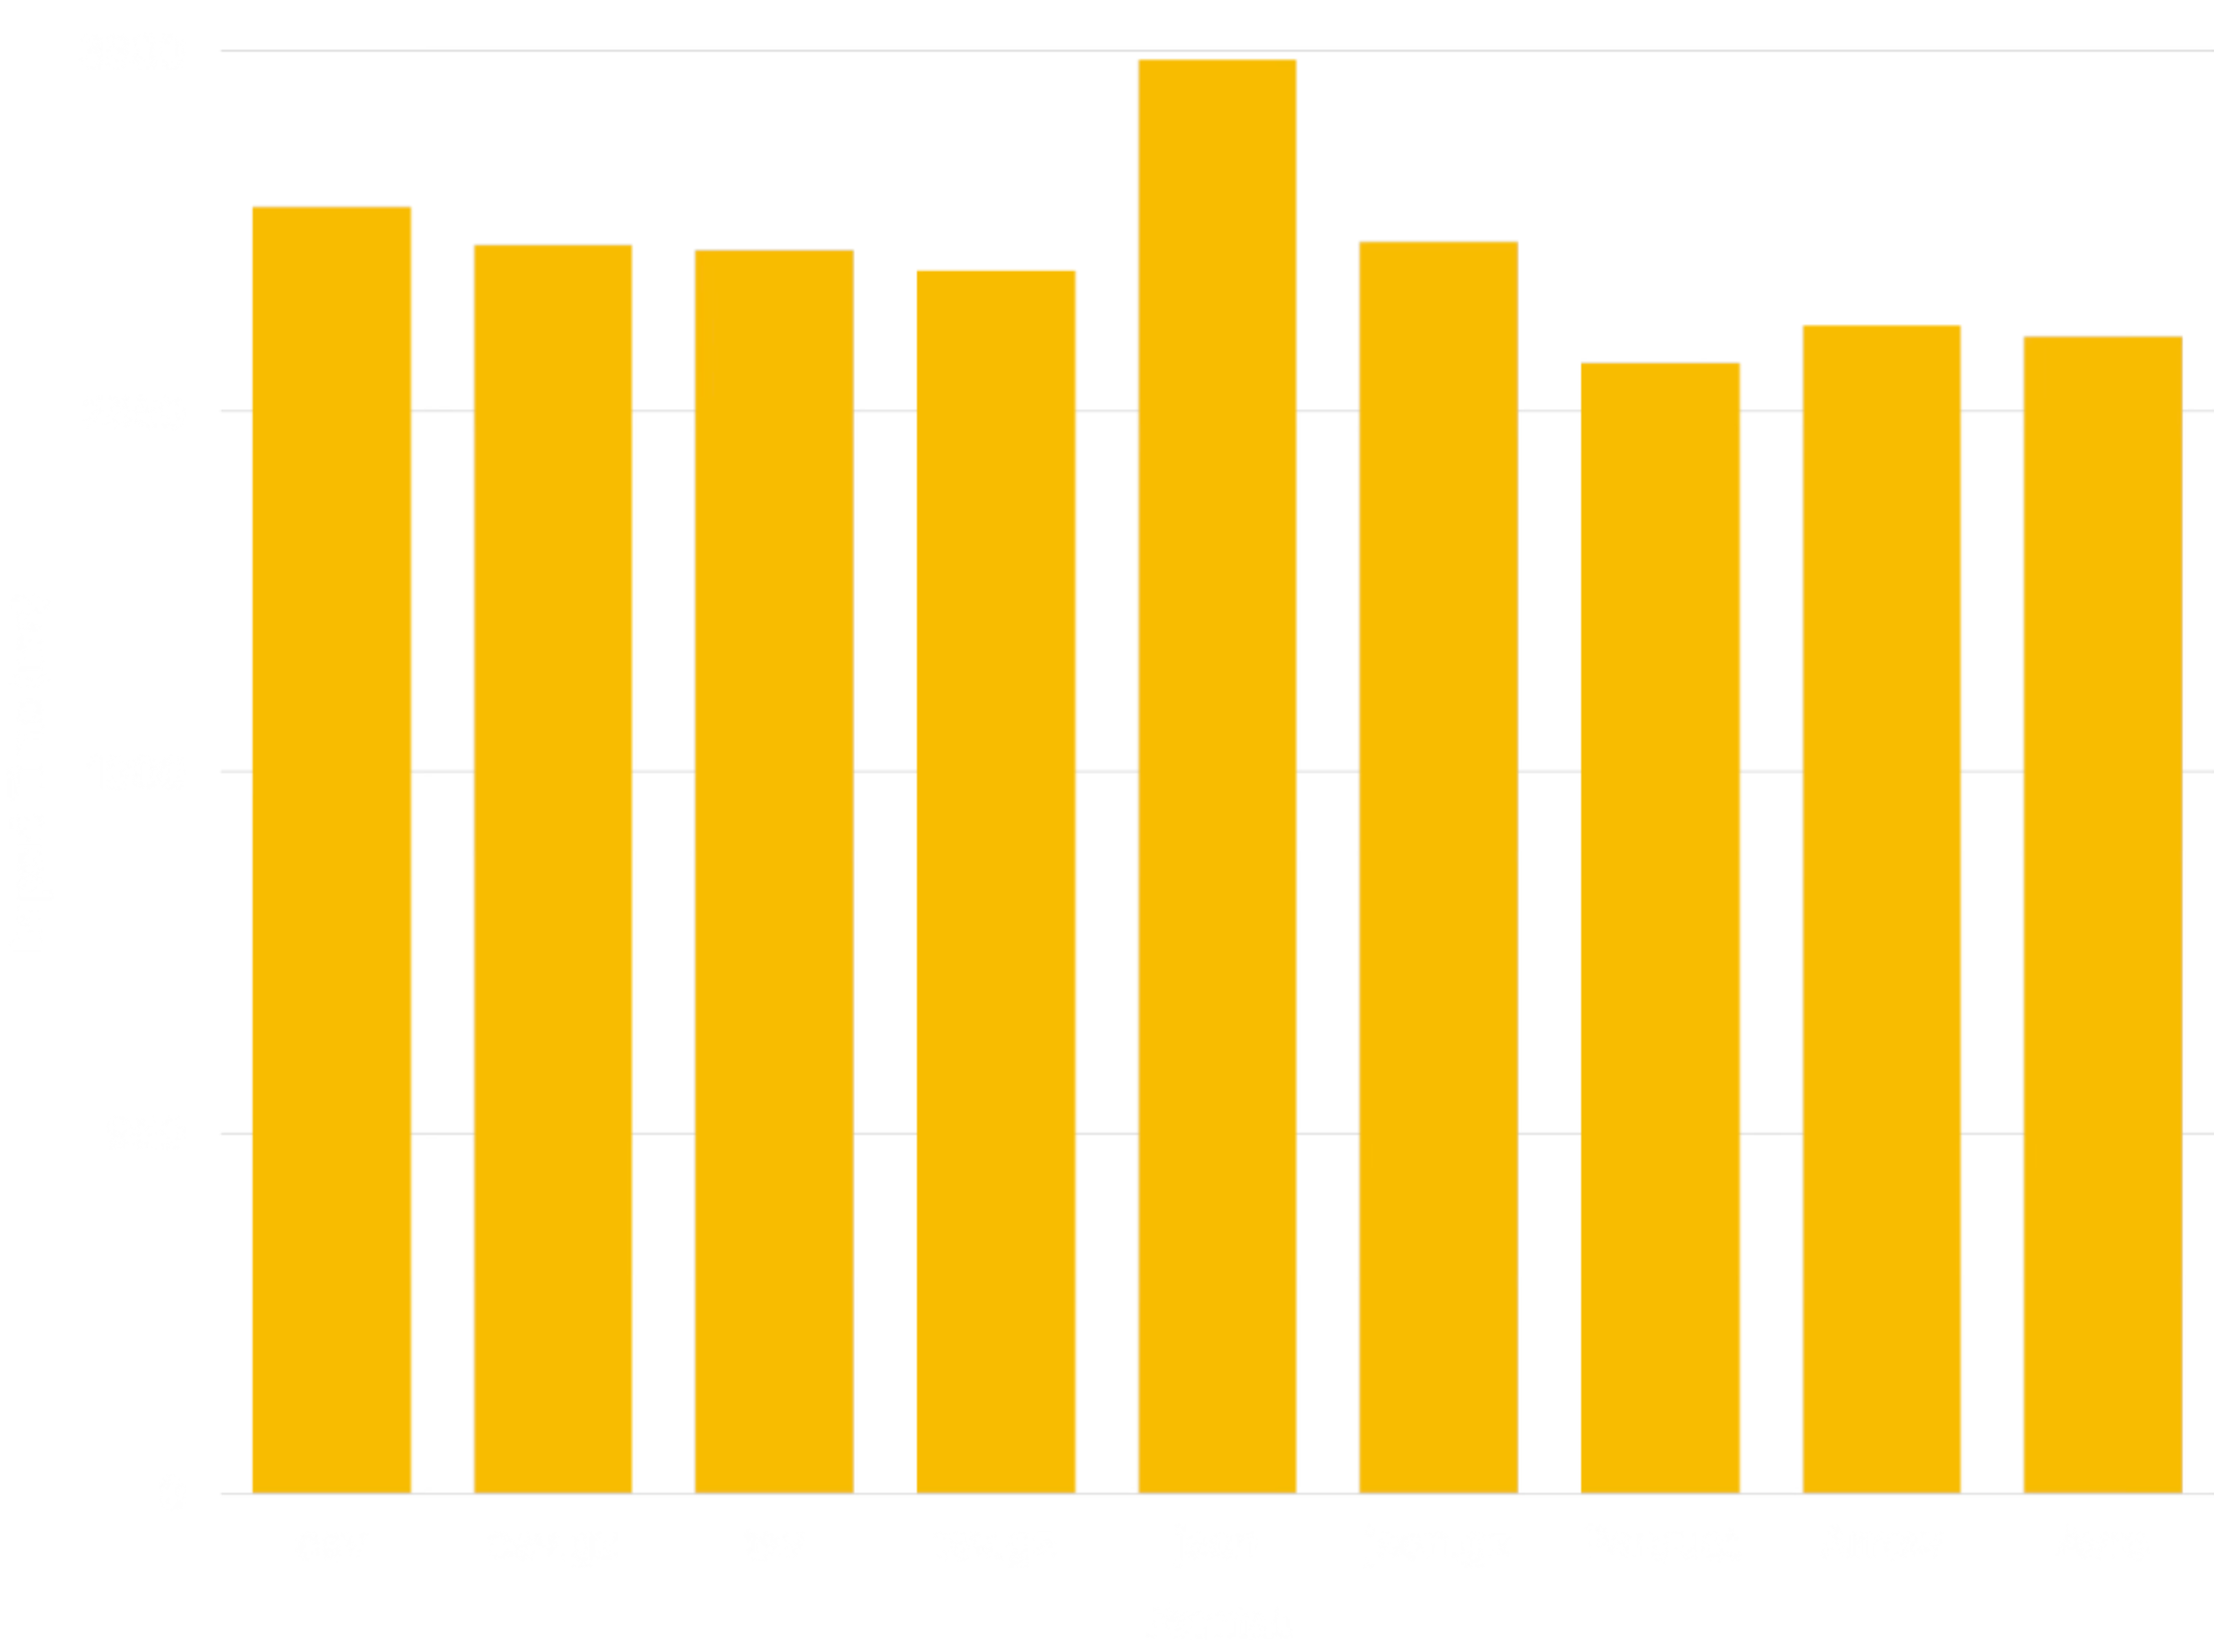
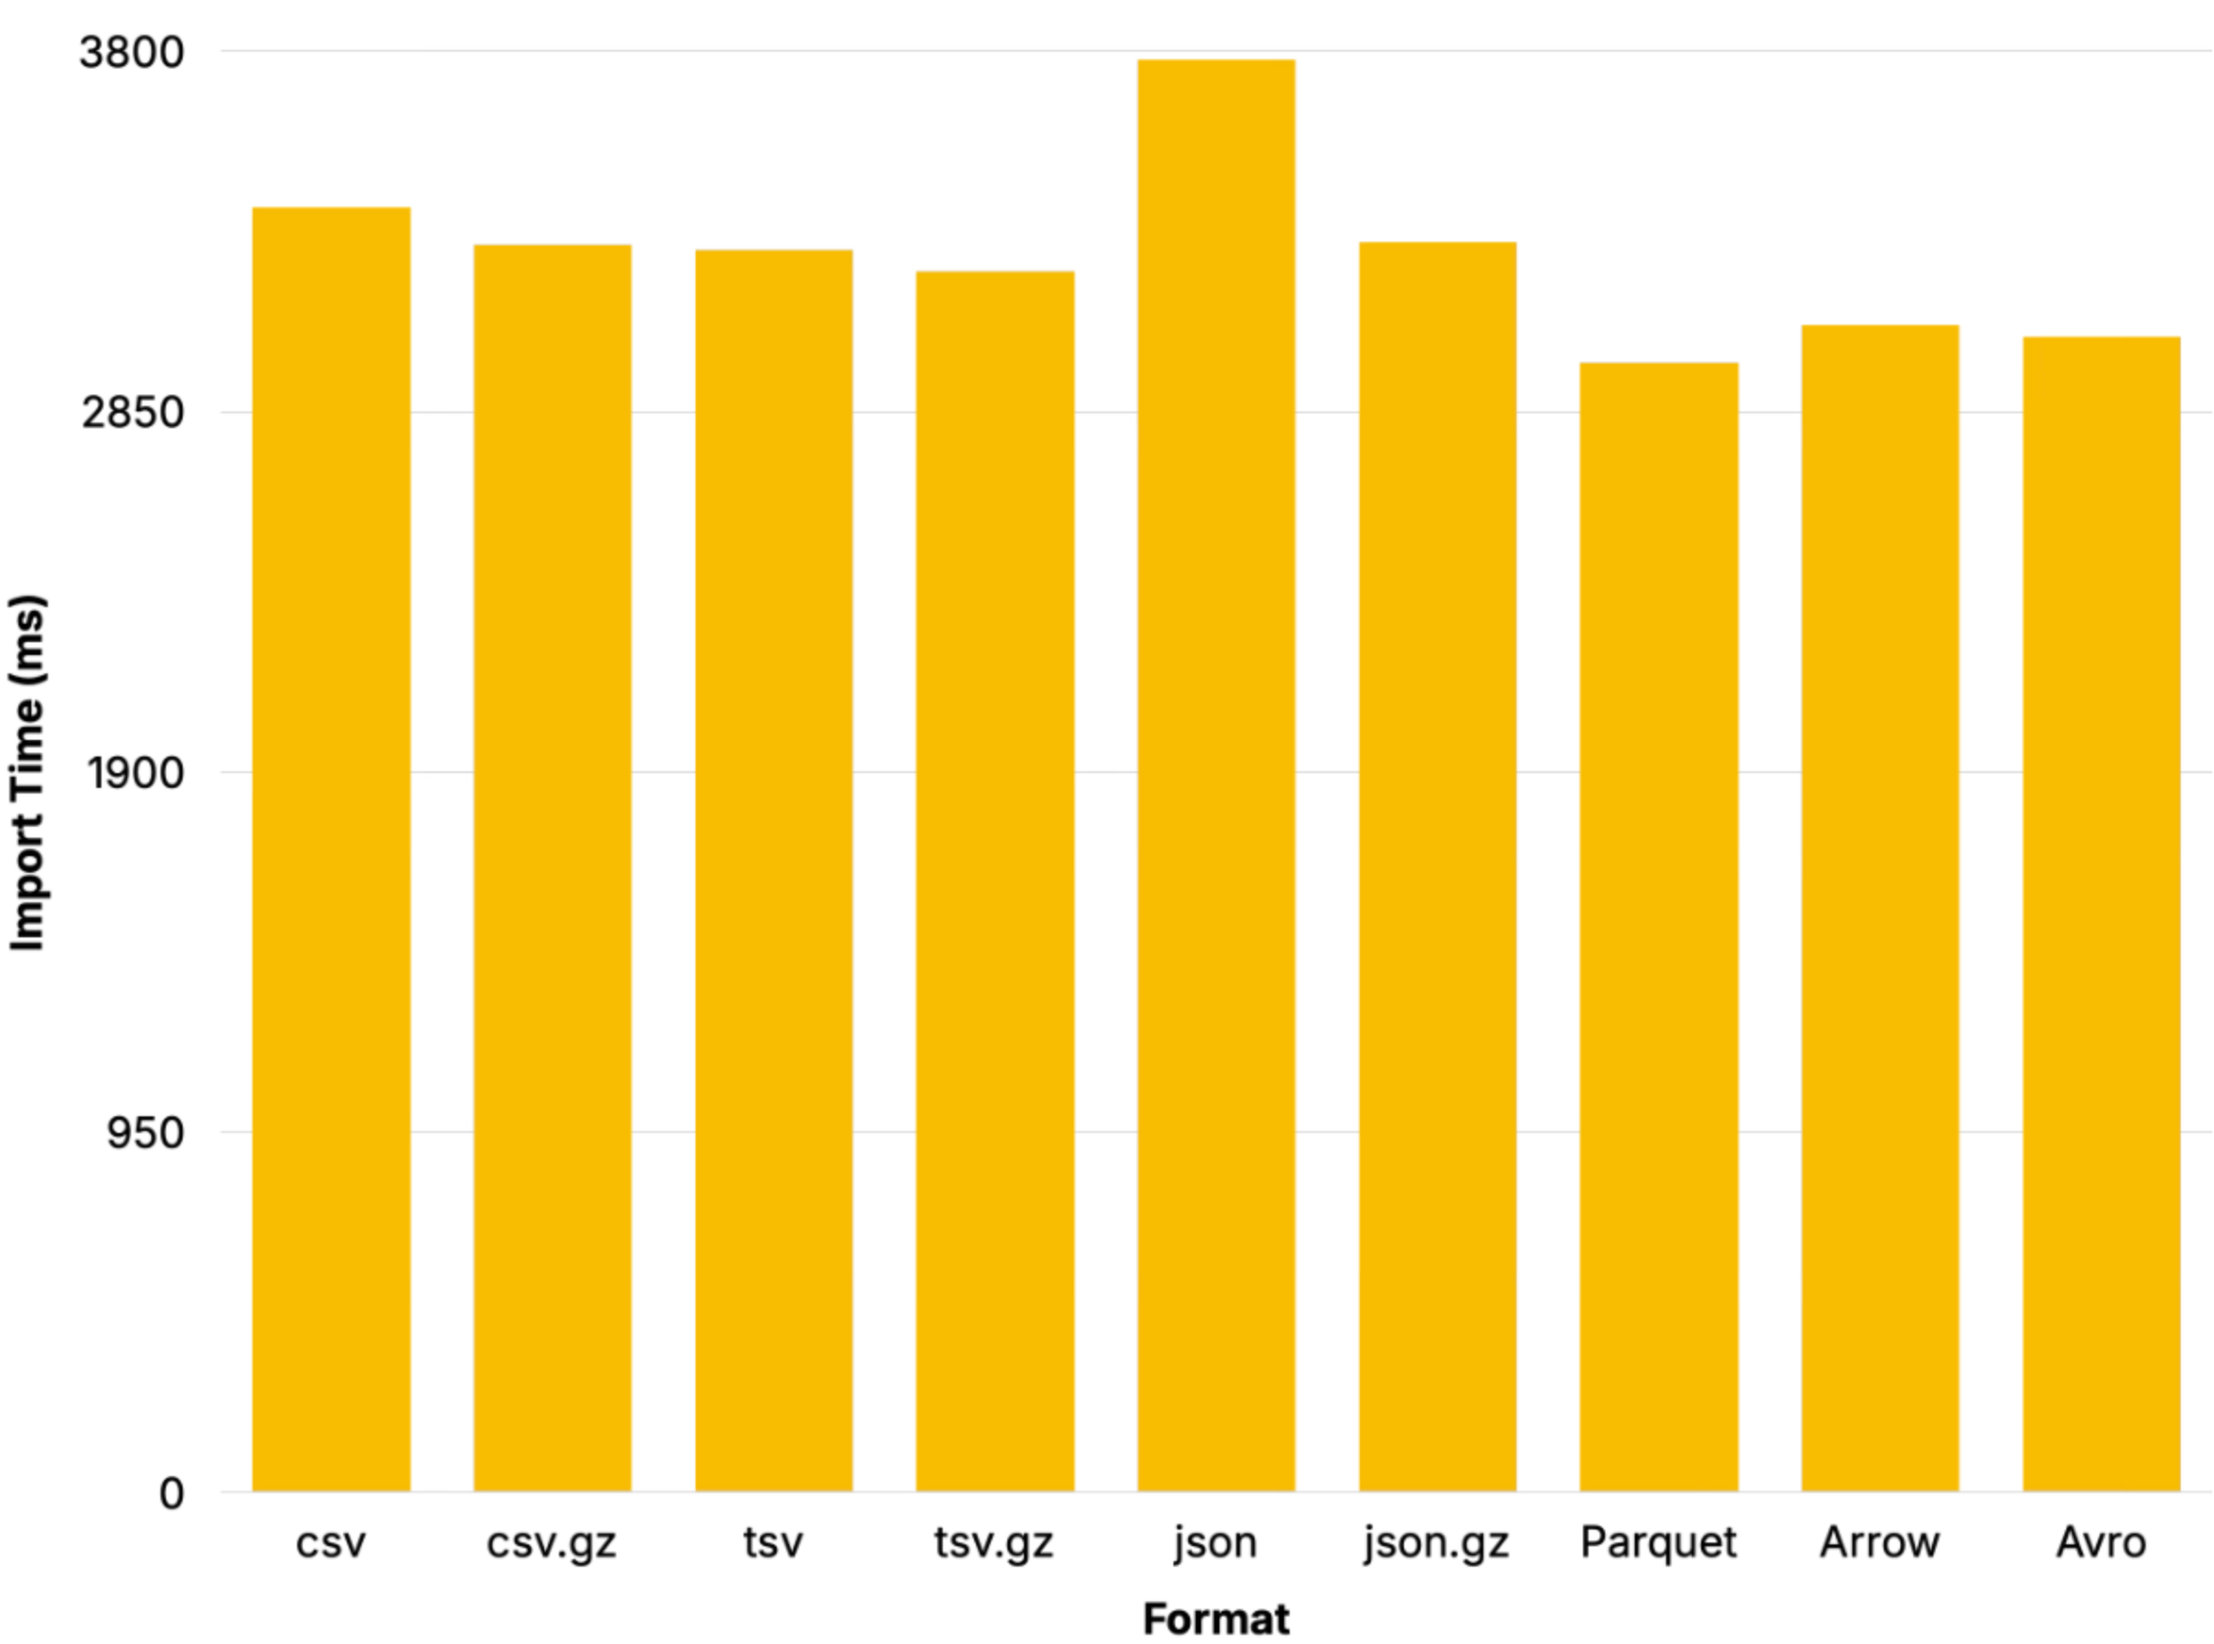
Increment to v0.1.1, link benchmark in README
Add alternate benchmark diagrams with black labels and timestamp for
release today. Tell PGXN not to index the `dev` directory, and exclude
`.gimodules` from the distribution. Replace "pg_clickhouse" pastos and
fix a few other minor documentation errors.

diff --git a/src/hook/copy.c b/src/hook/copy.c
@@ -277,7 +277,7 @@ make_ch_query(chdbCopyContext* ctx, StringInfo query, char** names, char** value
         if (ctx->scheme == s3_scheme) {
             if (slash && slash - uri >= strlen(AWS_HOST) &&
                 !pg_strncasecmp(slash - strlen(AWS_HOST), AWS_HOST, strlen(AWS_HOST))) {
-                /* s3://{bucket}.{region}.amazonaws.com/{path} */
+                /* s3://{bucket}.s3.{region}.amazonaws.com/{path} */
                 PARAM("{url:String}", "url", psprintf("https://%s", uri));
             } else {
                 /* s3://{bucket}/{path} */

diff --git a/README.md b/README.md
@@ -89,6 +89,43 @@ CREATE TABLE reviews () WITH (
 
 See the [chdb_hook documentation](doc/chdb_hook.md) for details.
 
+Benchmarking Formats
+--------------------
+
+The contents of [dev/benchmark](dev/benchmark/) compare the performance of
+[chdb_hook] `COPY` to that of [aws_s3], [pg_duckdb], and [pg_lake] for ca. 1m
+rows of [NYC Taxi dataset] in a variety of formats.
+
+<picture>
+  <source media="(prefers-color-scheme: dark)" srcset="dev/benchmark/taxi-bench-dark.png">
+  <img alt="NYC Taxi Data Benchmark" src="dev/benchmark/taxi-bench.png">
+</picture>
+
+Of the four extensions, [chdb] exhibits the most consistent performance.
+[pg_duckdb] and [pg_lake], both backed by [DuckDB], take around 2-3x as long
+to import data from CSV, JSON, and Parquet. Only [aws_s3] approaches
+[chdb_hook]'s performance, but it supports a much more limited array of data
+formats:
+
+| Extension | Compression                          | Data Formats
+| --------- | ------------------------------------ | -------------------------------- |
+| aws_s3    | none                                 | Text (TSV), CSV, Postgres Binary |
+| pg_lake   | gzip, zstd, snappy (Parquet only)    | CSV, JSON, Parquet               |
+| pg_duckdb | gzip, zstd, snappy (Parquet only)    | CSV, JSON, Parquet               |
+| chdb      | tzip, zstd, lz4, bz2, snappy, brotli | TSV, CSV, JSON, BSON, Prometheus, Protobuf, Avro, Parquet, Arrow, XML, CapnProto, Markdown, MsgPack, ORC, and [more][formats]! |
+
+Additional benchmarking demonstrates relatively consistent performance
+importing the [NYC Taxi dataset] in a variety of formats:
+
+<picture>
+  <source media="(prefers-color-scheme: dark)" srcset="dev/benchmark/chdb-bench-dark.png">
+  <img alt="Import Benchmark" src="dev/benchmark/chdb-bench.png">
+</picture>
+
+The benchmark uses the [JSONCompact] format for compatibility with the other
+extensions; Other JSON formats, such as [JSONCompactEachRow], will more
+closely approximate the performance of the other formats.
+
 Architecture
 ------------
 
@@ -114,10 +151,10 @@ A helper that dies triggers an error only in the backend that started it,
 leaving other sessions untouched.
 
 > [!IMPORTANT]
-> For each query, the helper connects to a new in-memory database to execute
-> it. As a consequence, each query currently runs in complete isolation from
-> all other queries. Don't create a table and expect to query it in a
-> subsequent query.
+> For each query, the helper connects to a temporary chDB database on disk to
+> execute it. As a consequence, each query currently runs in complete
+> isolation from all other queries. Don't create a table and expect to query
+> it in a subsequent query.
 
 Dependencies
 ------------
@@ -246,3 +283,12 @@ Copyright (c) 2026, ClickHouse
     "Postgres Docs: CREATE TABLE"
   [lib.chdb.io]: https://lib.chdb.io "curl -sL https://lib.chdb.io | bash"
   [`postgresql.conf` parameters]: https://www.postgresql.org/docs/devel/runtime-config-client.html#RUNTIME-CONFIG-CLIENT-OTHER
+  [chdb_hook]: https://pgxn.org/dist/chdb/doc/chdb_hook.html "chdb_hook Docs on PGXN"
+  [aws_s3]: https://docs.aws.amazon.com/AmazonRDS/latest/UserGuide/USER_PostgreSQL.S3Import.html
+    "Importing data from Amazon S3 into an RDS for PostgreSQL DB instance"
+  [pg_duckdb]: https://github.com/duckdb/pg_duckdb "DuckDB-powered Postgres for high performance apps & analytics"
+  [pg_lake]: https://github.com/Snowflake-Labs/pg_lake "pg_lake: Postgres with Iceberg and data lake access"
+  [formats]: https://clickhouse.com/docs/reference/formats/index
+    "ClickHouse Docs: Formats for input and output data"
+  [NYC Taxi dataset]: https://clickhouse.com/docs/get-started/quickstarts/tutorial
+    "ClickHouse Docs: Advanced tutorial"

diff --git a/doc/chdb.md b/doc/chdb.md
@@ -1,5 +1,5 @@
-chdb 0.1.0
-===========
+chdb 0.1.1
+==========
 
 ## Synopsis
 
@@ -153,8 +153,8 @@ Once installed, PostgreSQL tracks two variations of the version:
     function.
 *   The extension version (defined in the control file) includes only the
     major and minor versions, visible in the `pg_catalog.pg_extension` table,
-    the output of the `pg_available_extension_versions()` function, and `\dx
-    pg_clickhouse`.
+    the output of the `pg_available_extension_versions()` function, and
+    `\dx chdb`.
 
 In practice this means that a release that increments the patch version, e.g.
 from `v0.1.0` to `v0.1.1`, benefits all databases that have loaded `v0.1` and
@@ -162,8 +162,8 @@ do not need to run `ALTER EXTENSION` to benefit from the upgrade.
 
 A release that increments the minor or major versions, on the other hand, will
 be accompanied by SQL upgrade scripts, and all existing database that contain
-the extension must run `ALTER EXTENSION pg_clickhouse UPDATE` to benefit from
-the upgrade.
+the extension must run `ALTER EXTENSION chdb UPDATE` to benefit from the
+upgrade.
 
 ## Authors
 

diff --git a/CHANGELOG.md b/CHANGELOG.md
@@ -7,7 +7,11 @@ All notable changes to this project will be documented in this file. It uses the
   [Semantic Versioning]: https://semver.org/spec/v2.0.0.html
     "Semantic Versioning 2.0.0"
 
-## [v0.1.1] — Unreleased
+## [v0.1.1] — 2026-09-06
+
+This release makes binary-only changes. Once installed and loaded, any
+existing use of chdb and chdb_hook v0.1 will get the v0.1.1 benefits without
+needing to `ALTER EXTENSION UPDATE`.
 
 ### ⚡ Improvements
 
@@ -41,6 +45,8 @@ All notable changes to this project will be documented in this file. It uses the
     document the ISO-8601 format of plain text exports of `timestamp` and
     `timestamptz` values, as well as the impact of the `timezone` setting on
     exported and imported values.
+*   Added a [benchmark](dev/benchmark/) and documented its results in the
+    README.
 
   [v0.1.1]: https://github.com/clickhouse/pg_chdb/compare/v0.1.0...v0.1.1
   [#76]: https://github.com/clickhouse/pg_chdb/issues/76

diff --git a/doc/chdb_hook.md b/doc/chdb_hook.md
@@ -1,4 +1,4 @@
-chdb_hook 0.1.0
+chdb_hook 0.1.1
 ===============
 
 ## Synopsis
@@ -152,7 +152,7 @@ s3://{bucket}/{path}
 Or of an object URL:
 
 ```
-s3://{bucket}.{region}.amazonaws.com/{path}
+s3://{bucket}.s3.{region}.amazonaws.com/{path}
 ```
 
 #### GCS
@@ -689,11 +689,11 @@ chdb_hook adheres to [Semantic Versioning] for its public releases.
 *   The minor version increments for backward compatible SQL changes
 *   The patch version increments for binary-only changes
 
-Once installed, PostgreSQL the version via the the Postgres
+Once installed, PostgreSQL the version via the the Postgres 18
 [`pg_get_loaded_modules()`] function.
 
 ```sql
-SELECT version FROM pg_get_loaded_modules() WHERE module_name = 'chdb';
+SELECT version FROM pg_get_loaded_modules() WHERE module_name = 'chdb_hook';
 ```
 
 ## Authors

diff --git a/dev/benchmark/README.md b/dev/benchmark/README.md
@@ -20,15 +20,24 @@ Test configurations:
 
 ### NYC Taxi Data
 
-![NYC Taxi Data Benchmark](taxi-bench.png)
+<picture>
+  <source media="(prefers-color-scheme: dark)" srcset="taxi-bench-dark.png">
+  <img alt="NYC Taxi Data Benchmark" src="taxi-bench.png">
+</picture>
 
 ### "Logs" Data
 
-!["Logs" Data Benchmark](logs-bench.png)
+<picture>
+  <source media="(prefers-color-scheme: dark)" srcset="logs-bench-dark.png">
+  <img alt="“Logs” Taxi Data Benchmark" src="logs-bench.png">
+</picture>
 
 ### chdb Data Formats
 
-![chdb Data Formats](chdb-bench.png)
+<picture>
+  <source media="(prefers-color-scheme: dark)" srcset="chdb-bench-dark.png">
+  <img alt="Import Benchmark" src="chdb-bench.png">
+</picture>
 
 ## Data Sets
 
